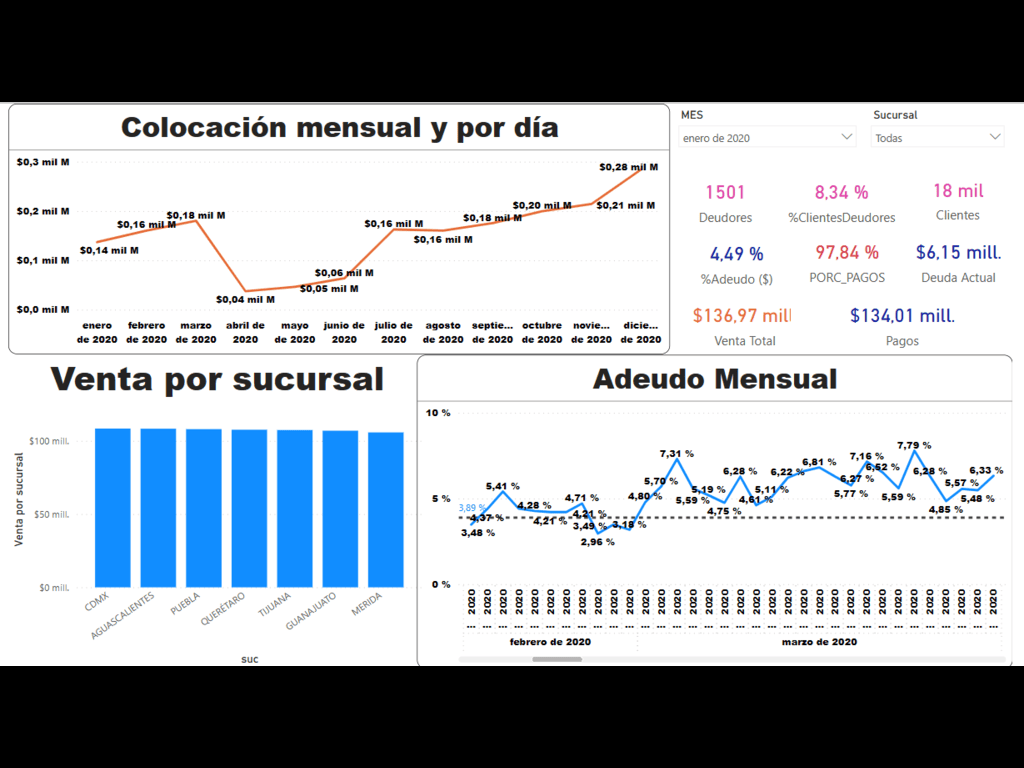
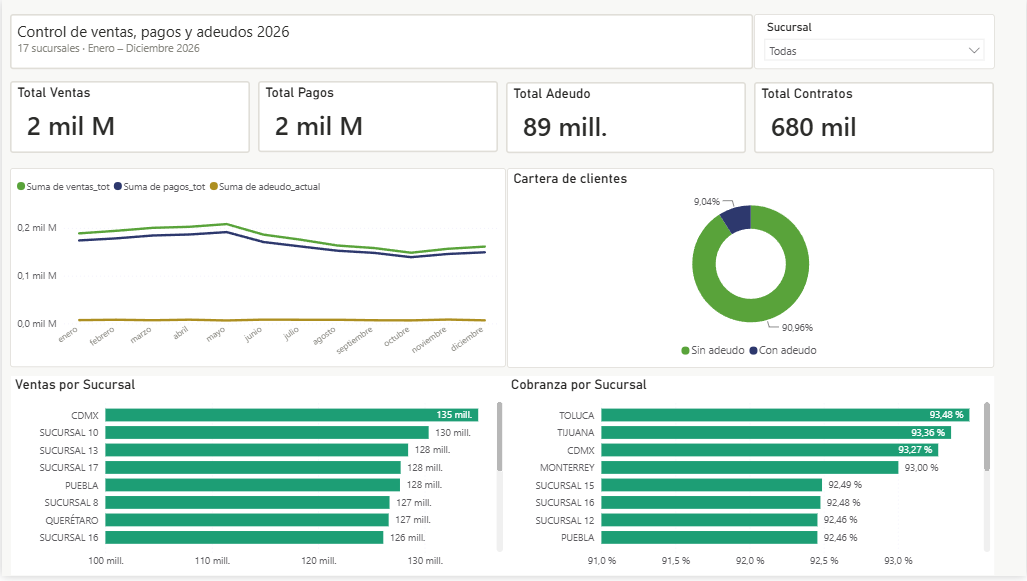
.

diff --git a/index.html b/index.html
@@ -244,11 +244,11 @@
 
             <div class="col-lg-4 col-md-6 portfolio-item isotope-item filter-app powerbi">
               <div class="portfolio-content h-100">
-                <img src="assets/img/portfolio/sales.png" class="img-fluid" alt="">
+                <img src="assets/img/portfolio/powerbi.png" class="img-fluid" alt="">
                 <div class="portfolio-info">
                   <h4>Análisis en Power BI</h4>
                   <p>Control de ventas, pagos y adeudos 2026</p>
-                  <a href="assets/img/portfolio/sales.png" title="Desarrollo de una solución de Inteligencia de Negocios (BI) para el monitoreo en tiempo real de indicadores clave de desempeño (KPIs) comerciales. El proyecto se centra en la transformación de datos sintéticos en un modelo relacional eficiente, orientado a la toma de decisiones estratégicas mediante una visualización clara y profesional." data-gallery="portfolio-gallery-app" class="glightbox preview-link"><i class="bi bi-zoom-in"></i></a>
+                  <a href="assets/img/portfolio/powerbi.png" title="Desarrollo de una solución de Inteligencia de Negocios (BI) para el monitoreo en tiempo real de indicadores clave de desempeño (KPIs) comerciales. El proyecto se centra en la transformación de datos sintéticos en un modelo relacional eficiente, orientado a la toma de decisiones estratégicas mediante una visualización clara y profesional." data-gallery="portfolio-gallery-app" class="glightbox preview-link"><i class="bi bi-zoom-in"></i></a>
                   <a href="https://app.powerbi.com/view?r=eyJrIjoiZjEwNzc5MDMtYWNmNi00NjU0LWE1OTQtZWY4ZjAzNGYxNGU2IiwidCI6ImVkMTQ0ODRkLWNlNzYtNGQ0NC04ZDA0LWRiNzY0YjY4ZWRhZiIsImMiOjR9" class="details-link" target="_blank"><i class="bi bi-link-45deg"></i></a>
                 </div>
               </div>